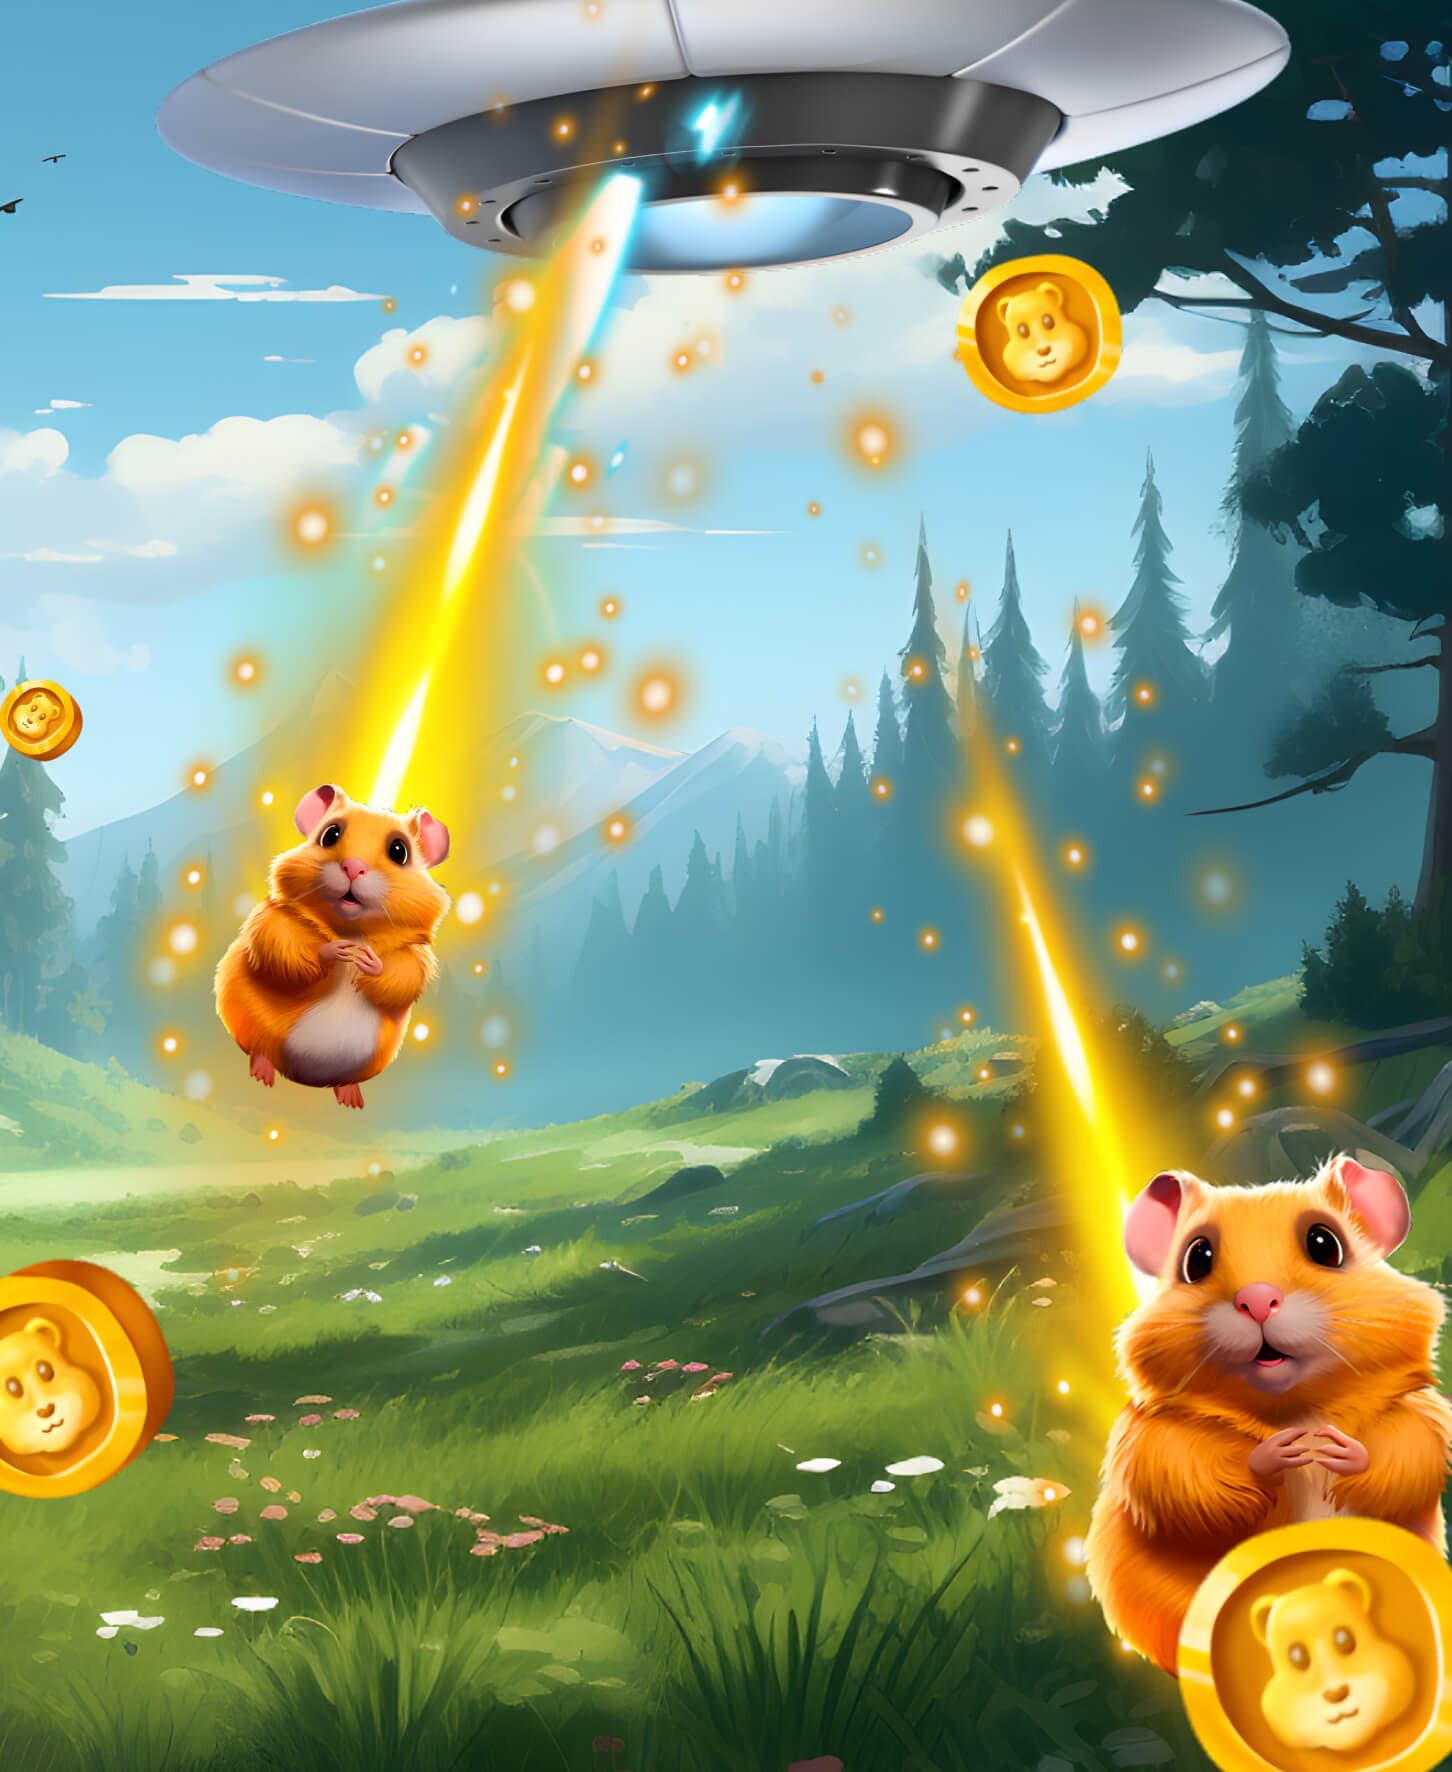
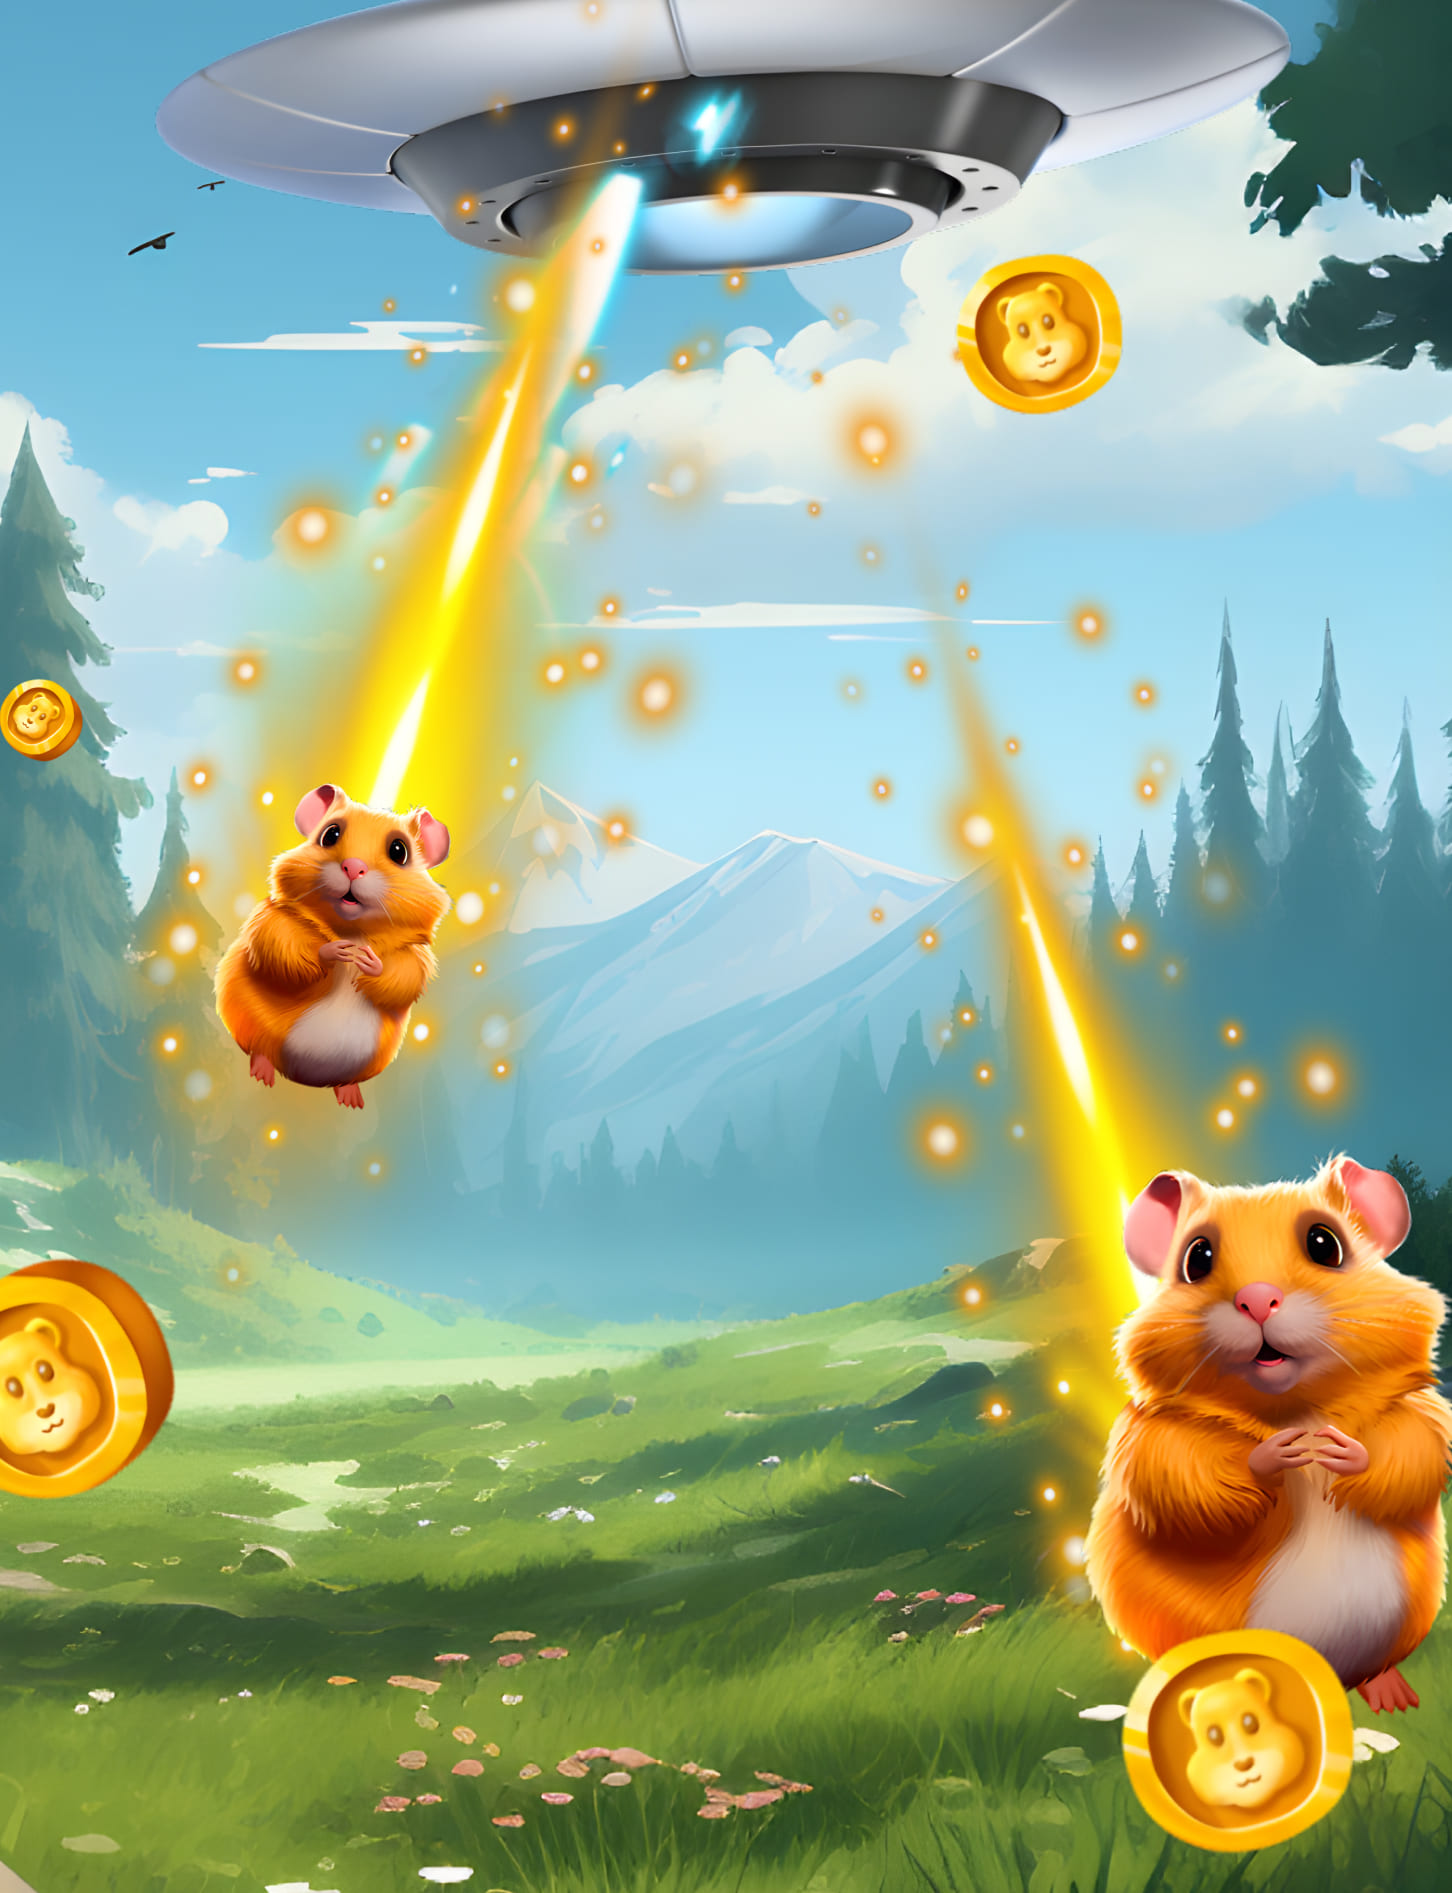
data updates

diff --git a/crash_hamster_crash.html b/crash_hamster_crash.html
@@ -119,7 +119,7 @@
 <body style="Margin:0;padding:0;min-width:100%;background-color:#dde0e1;">
 
   <!-- <body
-  style="margin: 0; padding: 0; min-width: 100%; background-image: url('https://i.ibb.co/nkNZgDn/bg.jpg'); background-size: cover;"> -->
+  style="margin: 0; padding: 0; min-width: 100%; background-image: url('https://i.ibb.co/TkNKkkx/bg.jpg'); background-size: cover;"> -->
 
 
   <!--[if (gte mso 9)|(IE)]>
@@ -131,7 +131,7 @@
 
 
   <center
-    style="width: 100%; table-layout: fixed; background-image: url('https://i.ibb.co/nkNZgDn/bg.jpg'); background-size: cover; background-color: #dde0e1; padding-top: 0px; padding-bottom: 0px;">
+    style="width: 100%; table-layout: fixed; background-image: url('https://i.ibb.co/TkNKkkx/bg.jpg'); background-size: cover; background-color: #dde0e1; padding-top: 0px; padding-bottom: 0px;">
 
 
     <div style="max-width: 600px;">
@@ -181,7 +181,7 @@
                 <td style=" padding:0px 0px 0px 0px;">
                   <a href="https://play.mascot.games/crash-hamster-crash" target="_blank"
                     style="display: block; width: 100%; text-decoration: none;">
-                    <img src="https://i.ibb.co/86gbC3w/main.png" alt="Hero Section With All Information"
+                    <img src="https://i.ibb.co/gwjSSjs/main.png" alt="Hero Section With All Information"
                       style="width: 100%; max-width: 600px; height: auto; display: block; padding: 0; margin: 0;" />
                   </a>
 
@@ -408,7 +408,7 @@
                   padding-top:10px;padding-bottom:0px;padding-right:10px;padding-left:10px;text-align:center;font-family:
                   Arial, Helvetica, sans-serif;font-size:14px; line-height:18px; color:#6B6B6B;font-weight: bold;
                   text-transform: uppercase;">
-                  <p style="padding: 0px 0px 0px 0px; margin:0px 0px 0px 0px;">Copyright © 2023 Mascot gaming, all
+                  <p style="padding: 0px 0px 0px 0px; margin:0px 0px 0px 0px;">Copyright © 2024 Mascot gaming, all
                     rights reserved.</p>
                 </td>
               </tr>
